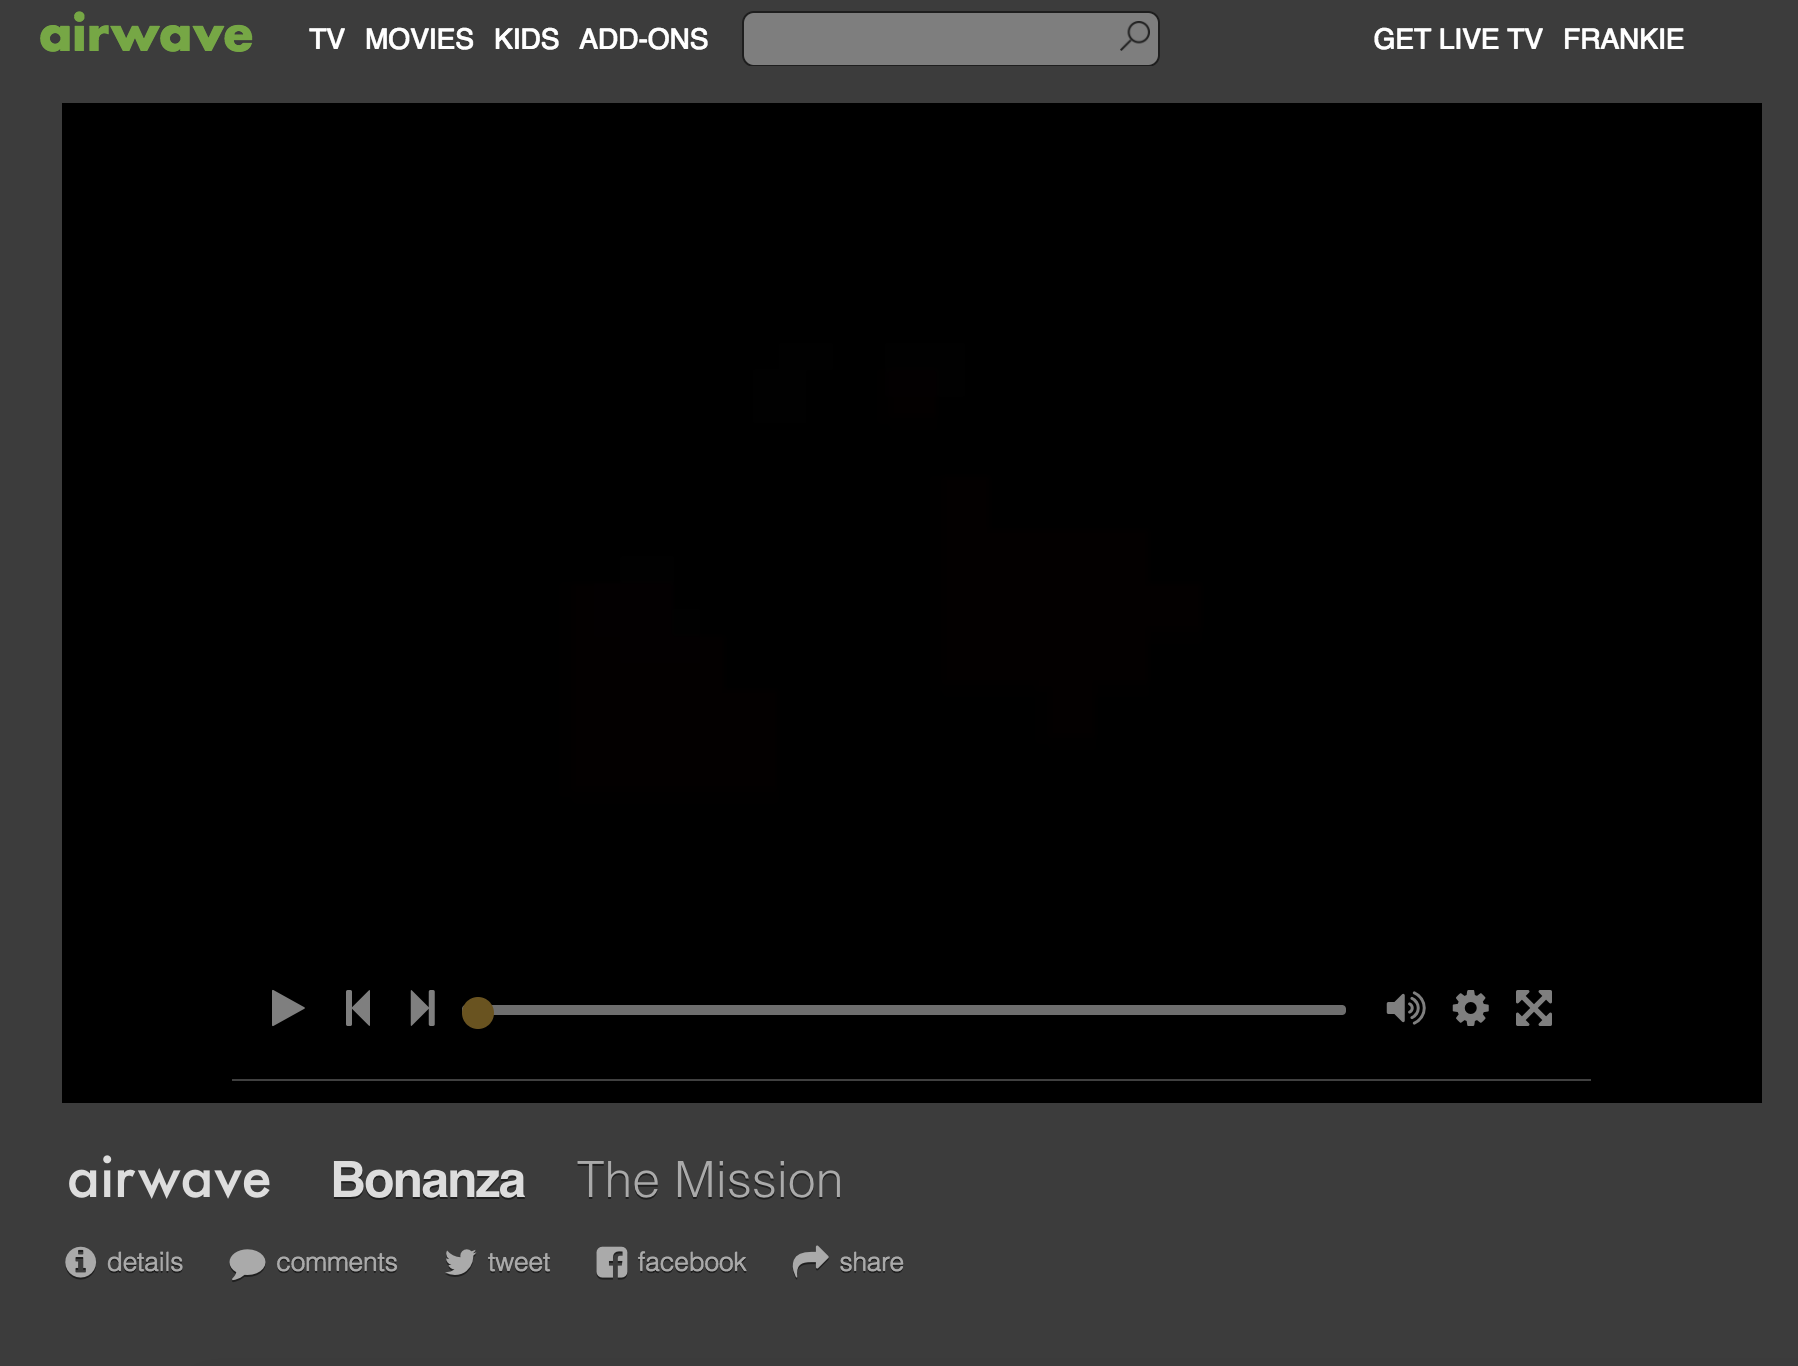
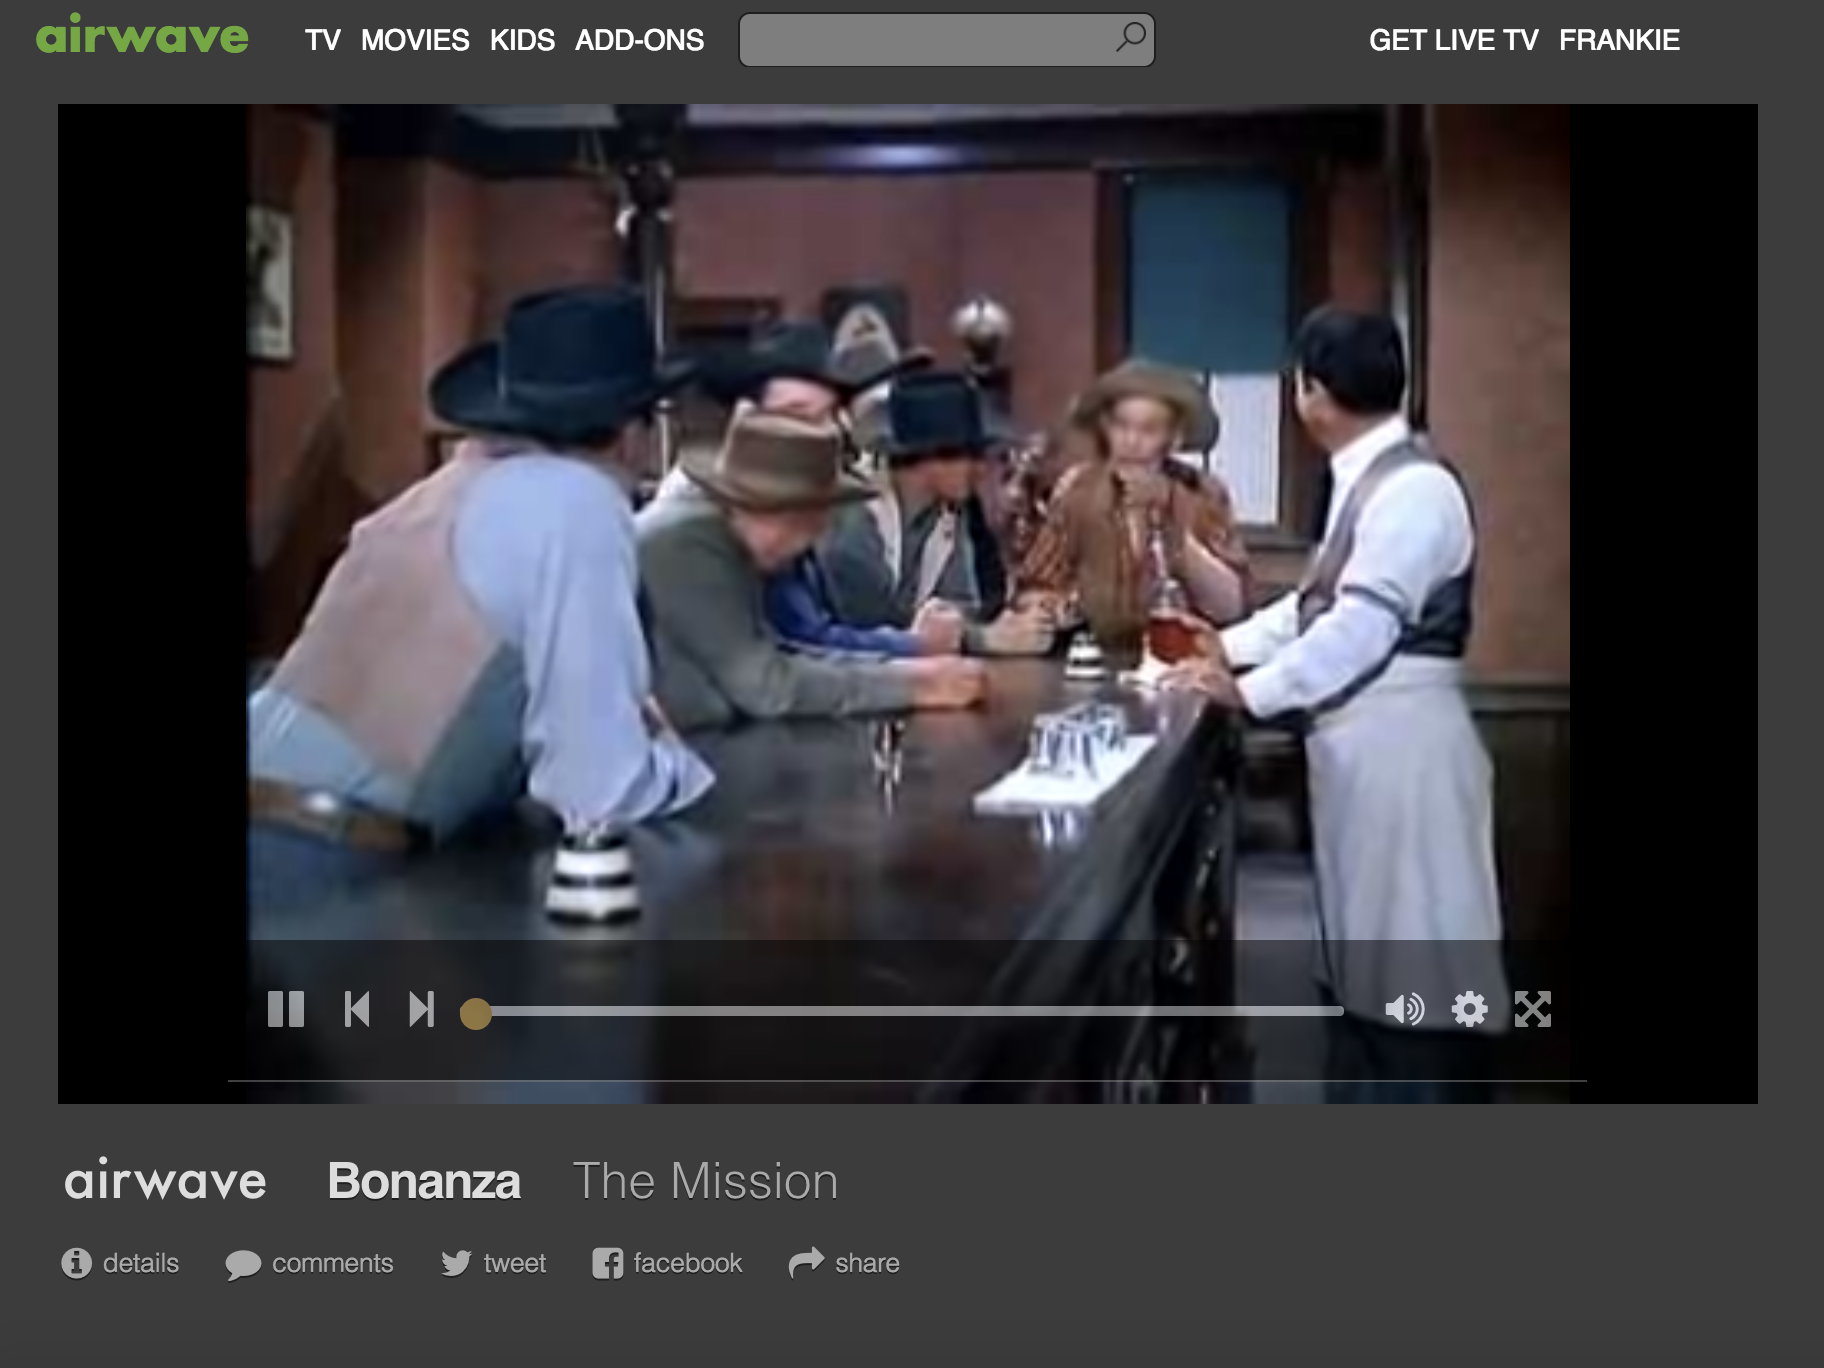
continue readme

diff --git a/README.md b/README.md
@@ -22,3 +22,10 @@ The episode_id is drawn from an episodes table with title, description and serie
 Airwave is a video platform, so let's watch a video.
 
 ![episode_view](app/assets/images/episode_view.png "episode")
+
+Hmmm...Bonanza seems like a pretty cool show. You'd like to know more?
+Let's press on the show title.
+
+![show_show](app/assets/images/show_show.png "showshow")
+
+If you'd like to start bingeing Bonanza from the beginning, we've queued up the first episode in our database.
